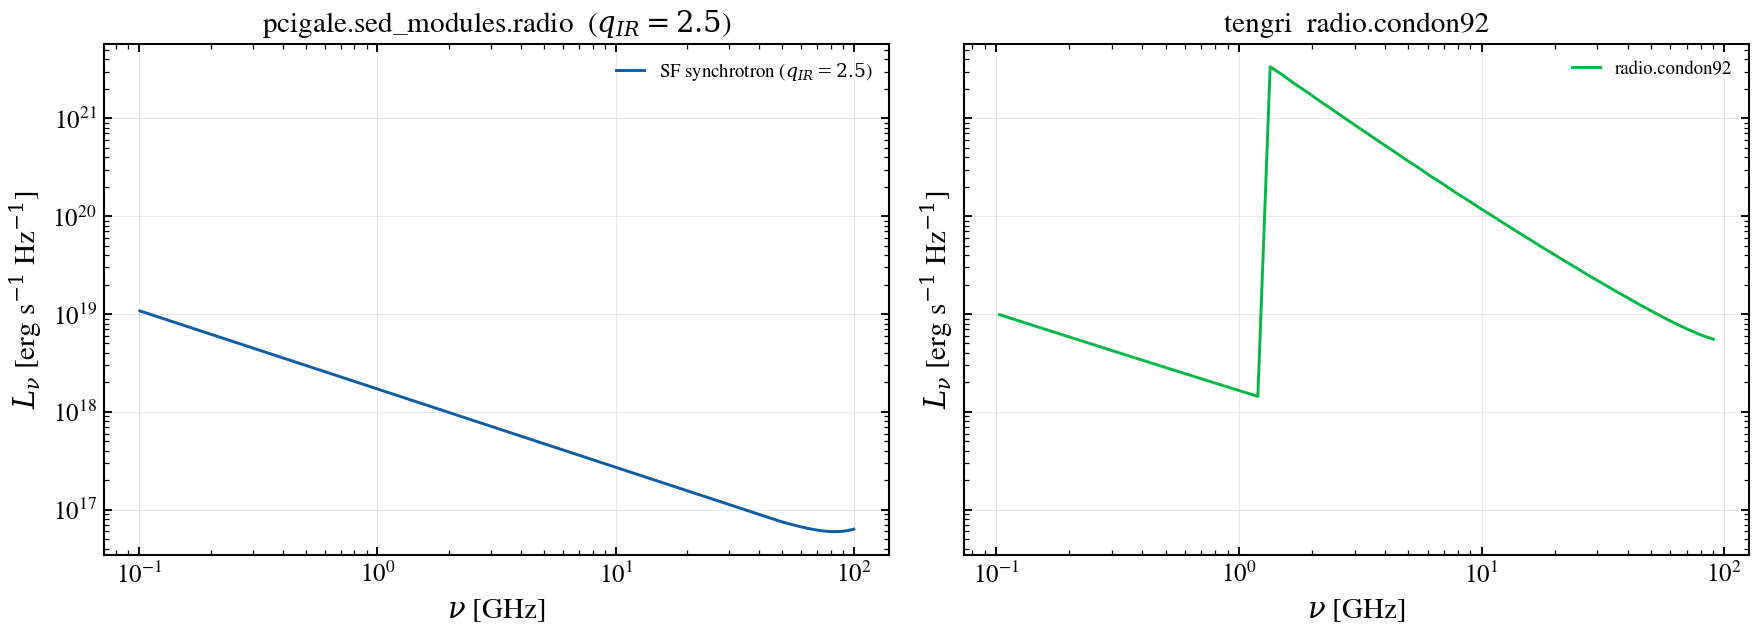
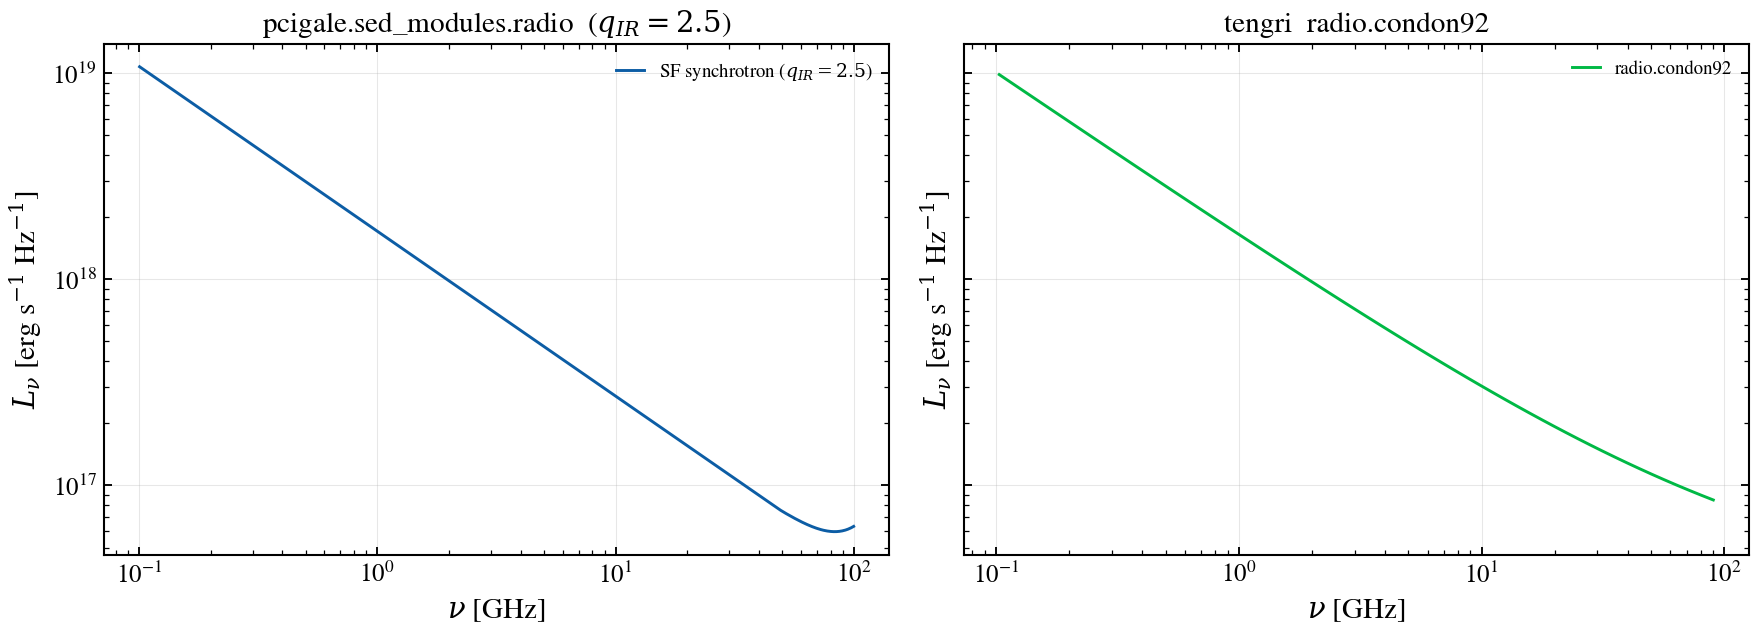
fix(reproduction/cigale): §11 plot only sed_radio, drop dust-IR bleed at low freq
Same bleed-through issue as §10: tengri was plotting full sed_intrinsic,
which includes the dust thermal peak at ~300 μm = ~1 GHz as a spike on
top of the synchrotron power-law. Switched to derived['sed_radio'] so
both panels show synchrotron only.

Both panels now show ~10^19 at 100 MHz to ~10^17 at 100 GHz; CIGALE's
faint free-free turnover above 50 GHz is a real physics difference vs
tengri's pure-power-law condon92, not a notebook bug.

diff --git a/reproduction/cigale/01_cigale.py b/reproduction/cigale/01_cigale.py
@@ -884,10 +884,11 @@ try:
         radio={"type": "condon92", "*": FIXED},
         redshift=Fixed(0.0),
     )
-    w_t, sed_t = m_r.predict_rest_sed({})
-    w_t = np.asarray(w_t); sed_t = np.asarray(sed_t)
+    state_r = m_r.predict_state({})
+    w_t = np.asarray(state_r.wave)
+    sed_t = np.asarray(state_r.derived.get("sed_radio", state_r.sed_intrinsic))
     nu_t = 2.998e18 / w_t / 1e9
-    mt = (nu_t >= 0.1) & (nu_t <= 100)
+    mt = (nu_t >= 0.1) & (nu_t <= 100) & (sed_t > 0)
     ax_r.plot(nu_t[mt], sed_t[mt], "C1-", linewidth=1.4, label="radio.condon92")
     ax_r.legend(fontsize=9)
 except Exception:
